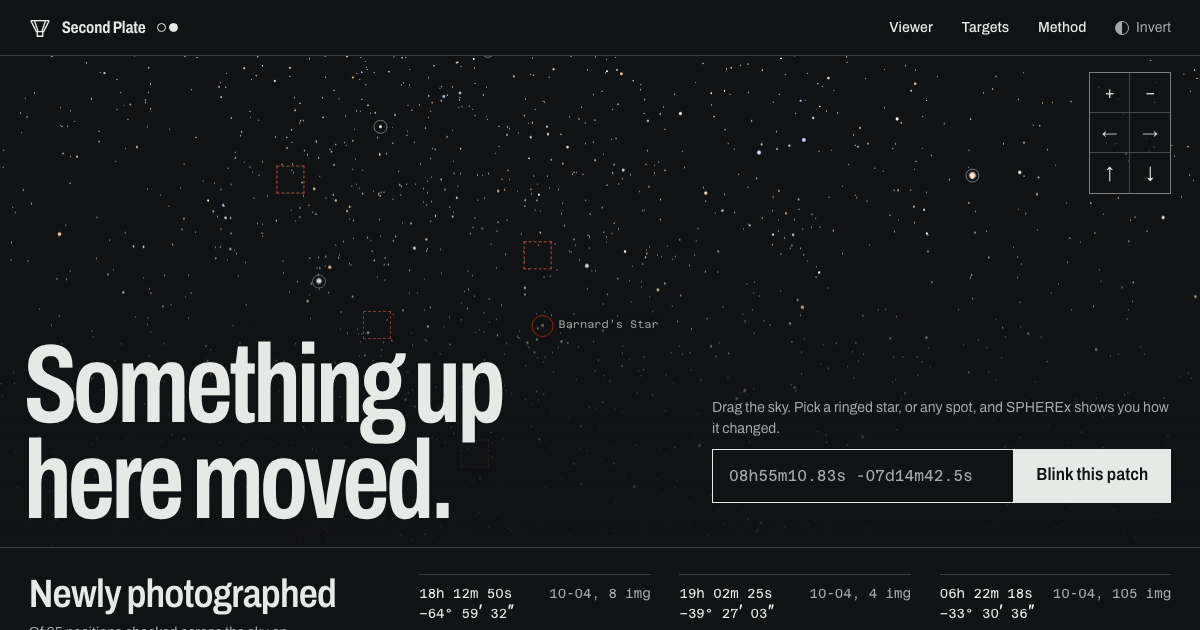
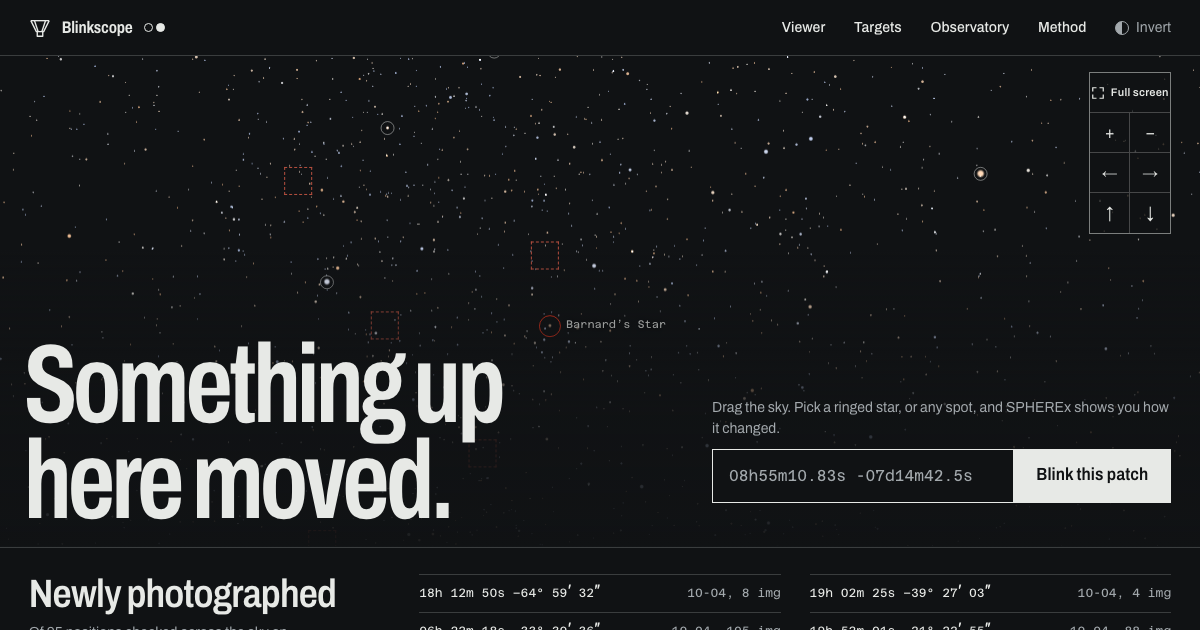
Rename the site to Blinkscope; site address follows the Vercel deployment

diff --git a/src/data/site.ts b/src/data/site.ts
@@ -1,11 +1,19 @@
 // Site-wide content. Items marked placeholder are assumptions for the team to replace.
 export const site = {
-  name: 'Second Plate', // placeholder: working title
+  name: 'Blinkscope',
   role: 'SPHEREx blink comparator',
-  // placeholder: set NEXT_PUBLIC_SITE_URL to the production URL at build time
-  url: process.env.NEXT_PUBLIC_SITE_URL ?? 'https://second-plate.example',
+  // Set NEXT_PUBLIC_SITE_URL to a custom domain if there is one. On Vercel the address is
+  // picked up automatically: the production domain if this is production, else the deployment's own.
+  url:
+    process.env.NEXT_PUBLIC_SITE_URL ??
+    (process.env.NEXT_PUBLIC_VERCEL_ENV === 'production' && process.env.NEXT_PUBLIC_VERCEL_PROJECT_PRODUCTION_URL
+      ? `https://${process.env.NEXT_PUBLIC_VERCEL_PROJECT_PRODUCTION_URL}`
+      : process.env.NEXT_PUBLIC_VERCEL_URL
+        ? `https://${process.env.NEXT_PUBLIC_VERCEL_URL}`
+        : 'http://localhost:3000'),
   description:
     'Enter a sky position and blink real SPHEREx infrared images of it across time. Whatever jumps between plates is moving. A NASA Space Apps 2026 project.',
+  // placeholder: put the real team name here and set placeholder to false; the footer then credits it
   team: { name: 'Team name', placeholder: true },
   challengeUrl: 'https://www.spaceappschallenge.org/2026/challenges/planet-x-and-spherex/',
   acknowledgement:

diff --git a/src/components/Footer.tsx b/src/components/Footer.tsx
@@ -20,7 +20,7 @@ export function Footer() {
         <a href="http://byw.tools/wiseview" target="_blank" rel="noopener noreferrer">WiseView, the tool this follows</a>
       </div>
       <div className="site-footer__col">
-        <p>Made for NASA Space Apps 2026 by {site.team.name}.</p>
+        <p>Made for NASA Space Apps 2026{site.team.placeholder ? '' : ` by ${site.team.name}`}.</p>
         <p className="muted">Images: NASA, JPL-Caltech, IPAC.</p>
       </div>
       <p className="site-footer__fine">SPHEREx is a joint project of the Jet Propulsion Laboratory and Caltech, funded by NASA. Full data credits are on the method page. This site is a hackathon entry and is not endorsed by NASA.</p>

diff --git a/src/app/method/page.tsx b/src/app/method/page.tsx
@@ -6,7 +6,7 @@ import { site } from '@/data/site';
 
 export const metadata: Metadata = {
   title: 'Method',
-  description: 'How Second Plate turns SPHEREx exposures into aligned plates: archive search, partial file reads, reprojection, stacking by survey pass, and the limits.',
+  description: 'How Blinkscope turns SPHEREx exposures into aligned plates: archive search, partial file reads, reprojection, stacking by survey pass, and the limits.',
 };
 
 export default function Method() {

diff --git a/src/app/embed/page.tsx b/src/app/embed/page.tsx
@@ -3,7 +3,7 @@ import { ViewerRoute, type Query } from '@/components/viewer/ViewerRoute';
 
 export const metadata: Metadata = {
   title: 'Embedded viewer',
-  description: 'The Second Plate SPHEREx blink viewer without site navigation, for use inside an iframe.',
+  description: 'The Blinkscope SPHEREx blink viewer without site navigation, for use inside an iframe.',
   robots: { index: false },
 };
 

diff --git a/DESIGN.md b/DESIGN.md
@@ -1,11 +1,11 @@
-# Second Plate: design record
+# Blinkscope: design record
 
 ## Brief
 - **Subject:** a public web tool for the NASA Space Apps 2026 challenge "Planet X and SPHEREx".
   Enter a sky position, see SPHEREx images of it over time as a blink, spot what moves.
 - **Audience:** citizen scientists and hackathon judges; then astronomers who want an embeddable blink.
 - **Job:** a first-time visitor sees a real object move within ten seconds, then searches their own coordinates.
-- **Assumptions (placeholders in `src/data/site.ts`):** site name "Second Plate", team name, production URL.
+- **Assumptions (placeholders in `src/data/site.ts`):** team name. The site was first called "Second Plate"; it was renamed Blinkscope at the owner's request before deployment.
 
 ## Concept
 | | A. Blink comparator (process) | B. The filter is the page (material) | C. Everything is a coordinate (formal) |

diff --git a/README.md b/README.md
@@ -1,4 +1,4 @@
-# Second Plate
+# Blinkscope
 
 A blink comparator for SPHEREx, built for the NASA Space Apps 2026 challenge
 [Planet X and SPHEREx](https://www.spaceappschallenge.org/2026/challenges/planet-x-and-spherex/).
